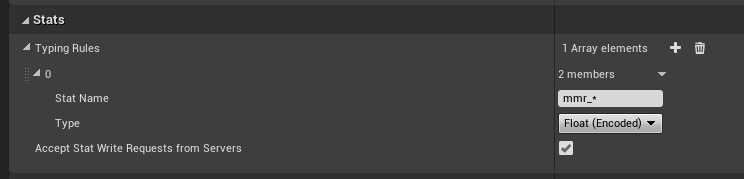
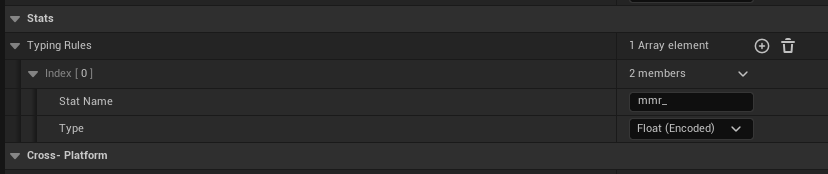
Remove reference to old settings in skill-based matchmaking configuration

diff --git a/docs/matchmaking/skill_configuration.md b/docs/matchmaking/skill_configuration.md
@@ -13,10 +13,7 @@ You first need to create the two stats in the [Epic Games Developer Portal](http
 
 ![A screenshot of the Epic Games Developer Portal](./skill_configuration/backend_config.png)
 
-Then in your game's Project Settings, you need to configure two things:
-
-- Tell the EOS Online Framework plugin to encode the stats as "Float (Encoded)", based on the prefix you are using.
-- Enable the "Accept Stat Write Requests from Servers".
+Then in your game's Project Settings, you need to tell how the EOS Online Framework plugin to encode the stats as "Float (Encoded)", based on the prefix you are using.
 
 ![A screenshot of the plugin configuration](./skill_configuration/plugin_configuration.png)
 
